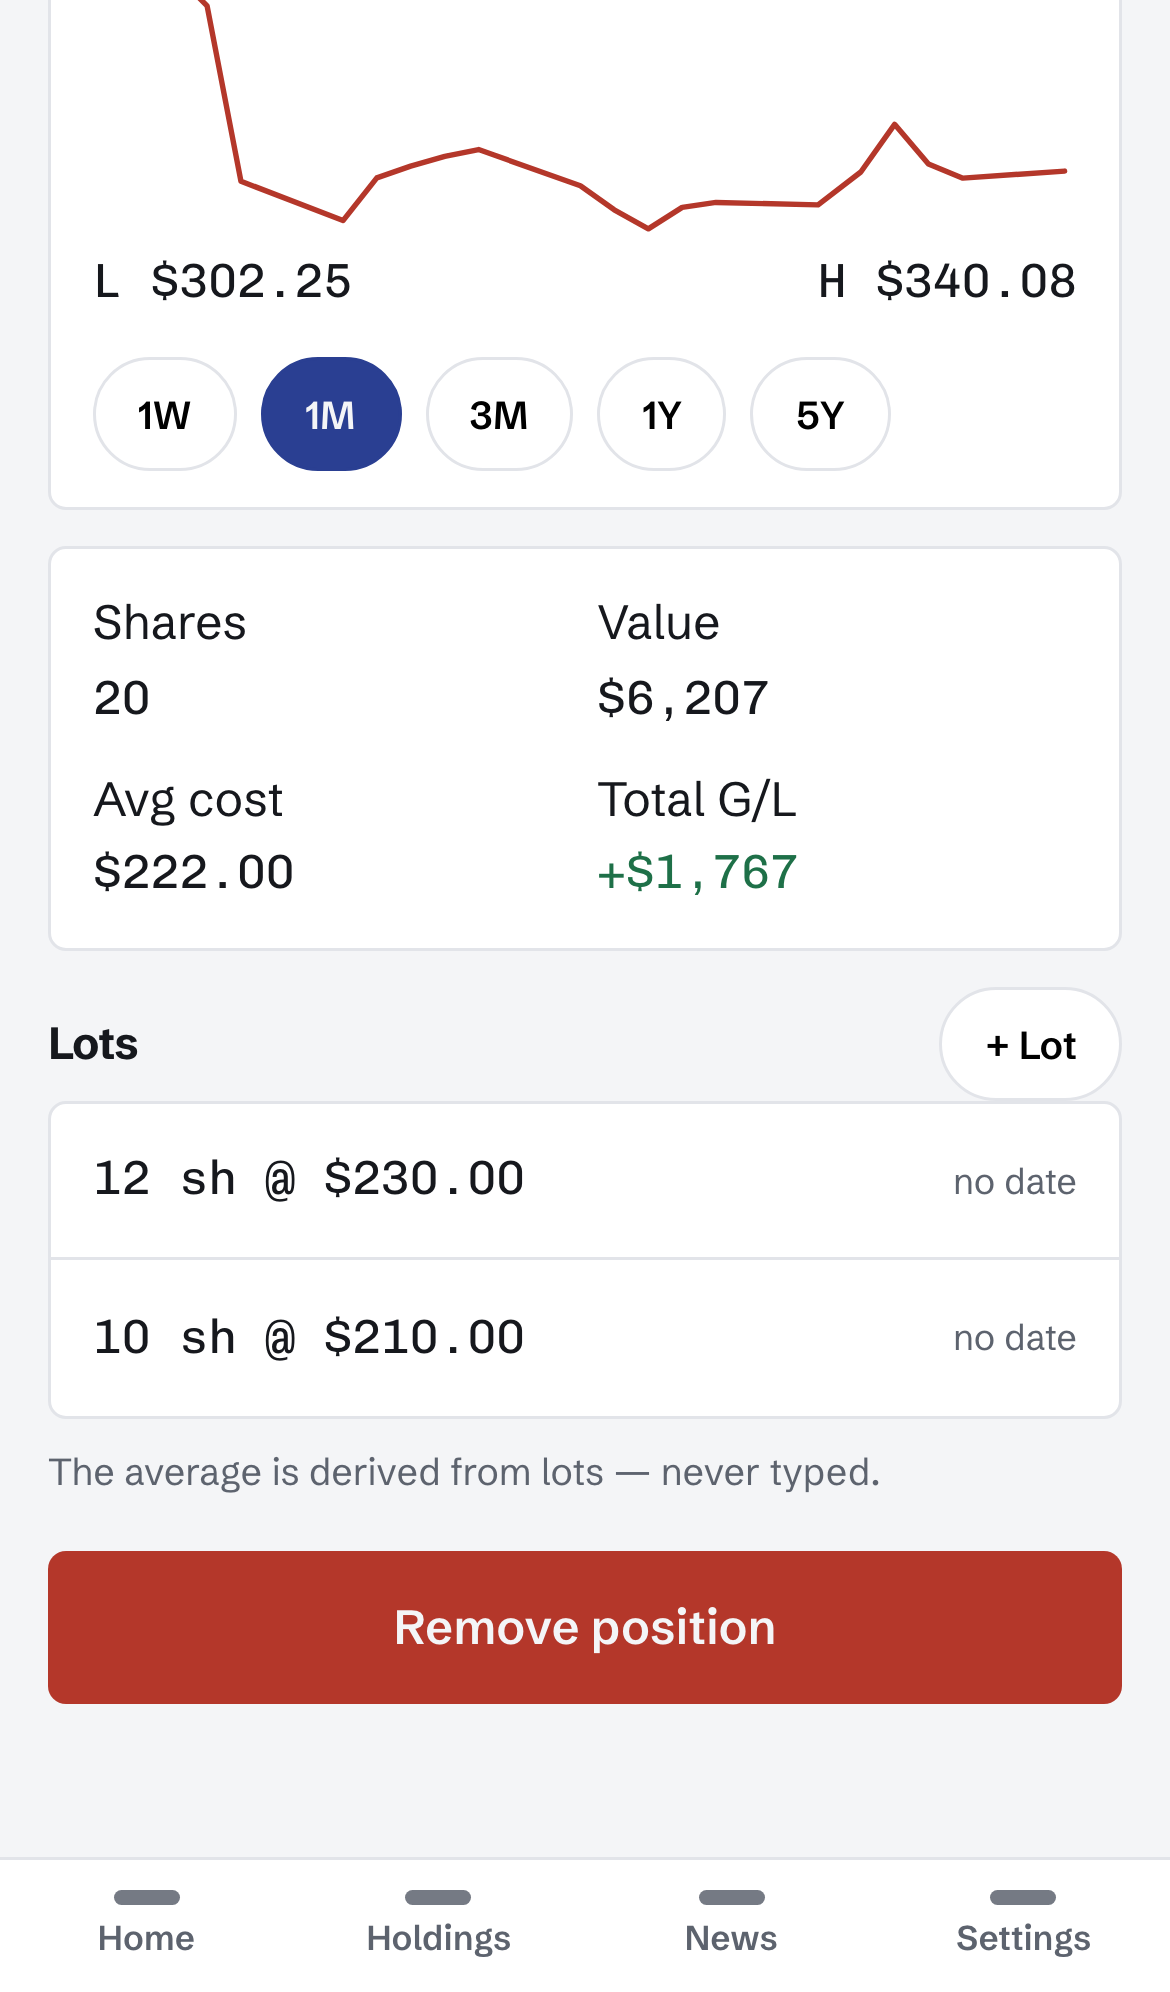
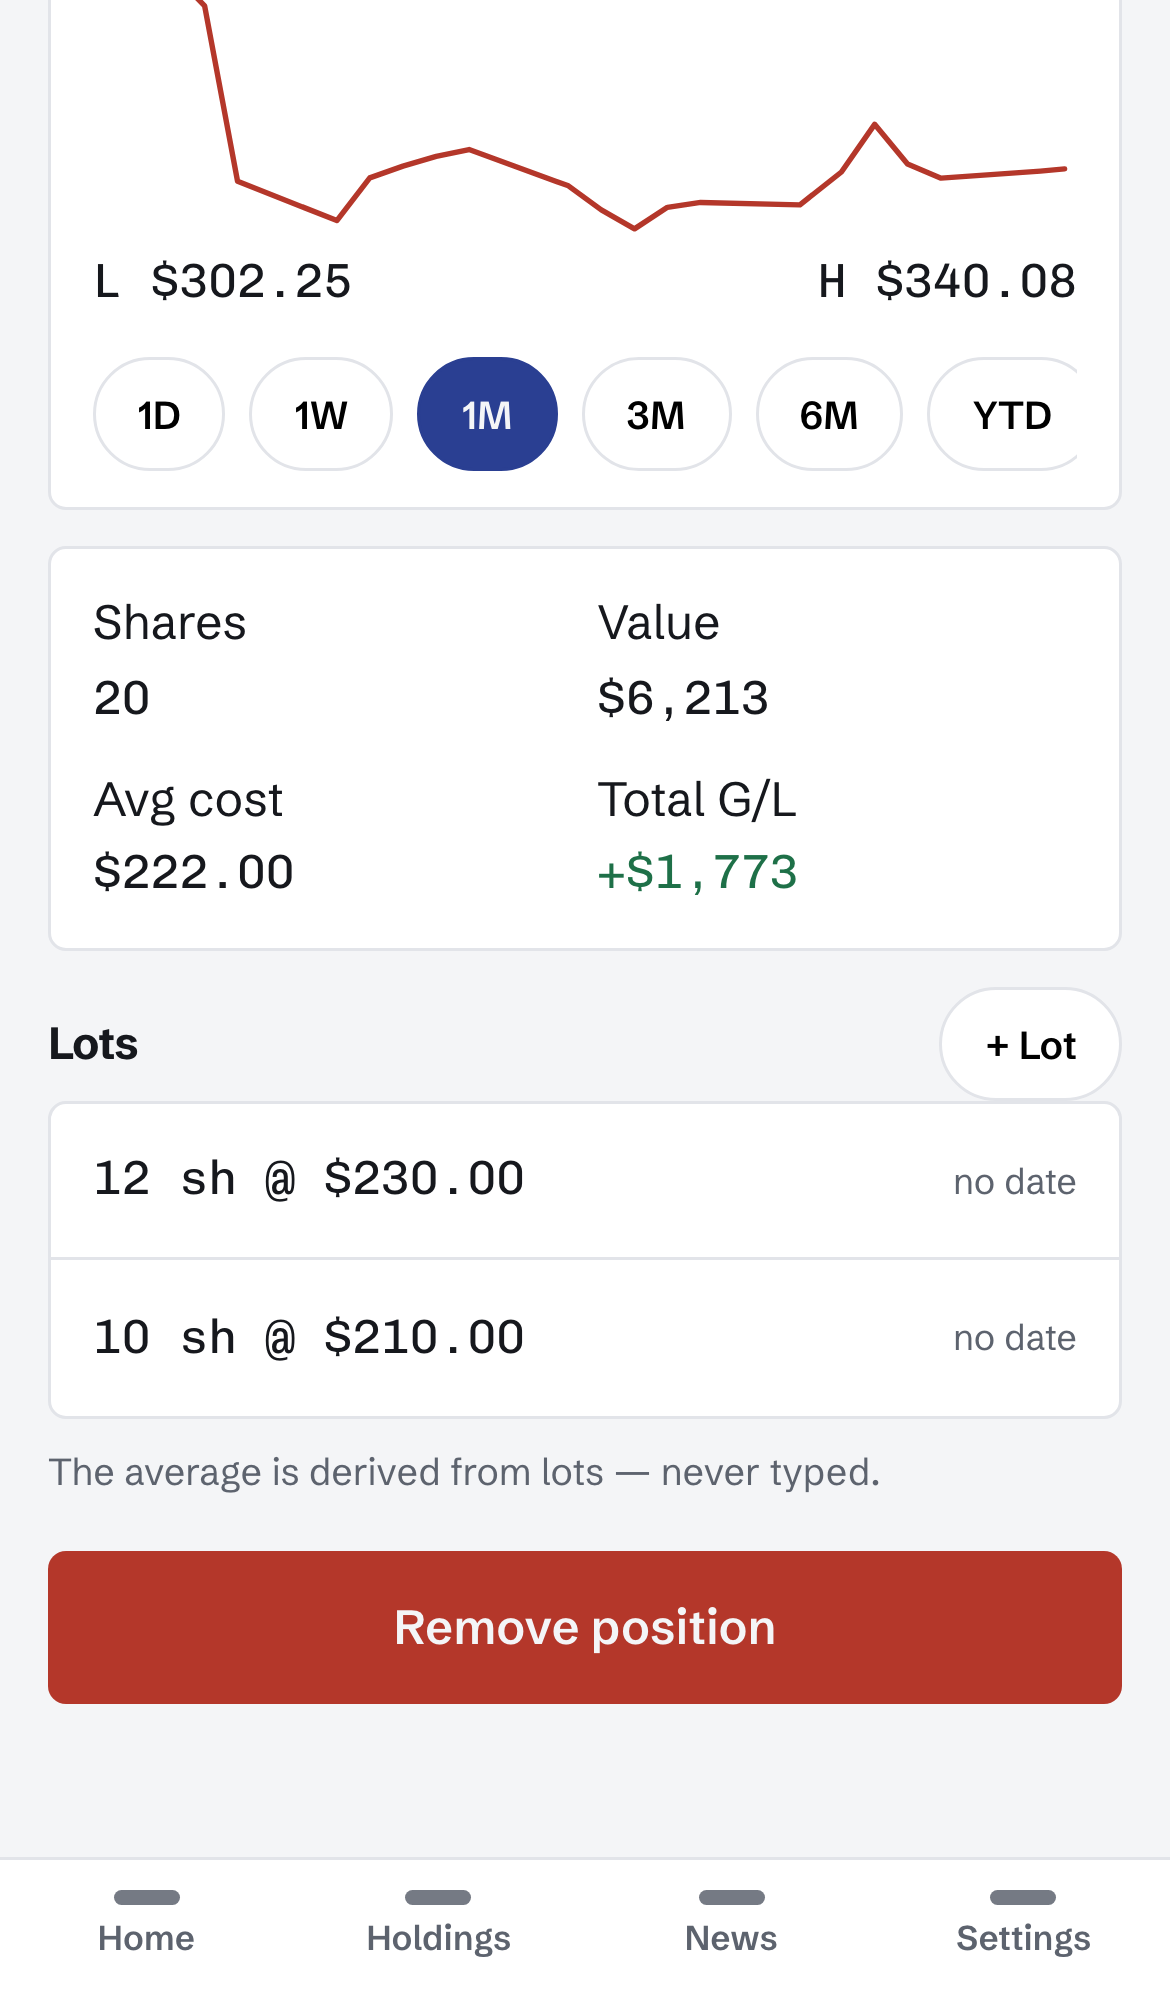
Scenario: full 9-range chart loop; canvas chips synced
Claude-Session: https://claude.ai/code/session_01UrXDbe72LnXzKfy7ekZgnY

diff --git a/design/Assetly gap screens.dc.html b/design/Assetly gap screens.dc.html
@@ -85,7 +85,7 @@ body{margin:0;background:#DFE2E7;font-family:'Schibsted Grotesk','Noto Sans KR',
   <div class="dv-thd"><a class="dv-tid" href="#t7">t7</a><span class="dv-tname">Price chart on Position — 1D/1W/1M/3M (synced from Claude Code, implemented in app/web)</span></div>
   <p class="dv-sub">Every held ticker carries 5 years of history (weekly + daily closes) backfilled the moment it is added.
   The chart draws <b>daily closes only</b> — one point per day, no intraday jitter — and while the market trades, today's
-  point is the live price. Ranges 1W · 1M · 3M · 1Y · 5Y (1D dropped: a one-point range is noise). Loss ranges draw red, gains green.</p>
+  point is the live price. Ranges 1D · 1W · 1M · 3M · 6M · YTD · 1Y · 2Y · 5Y (Stocks-app parity; 1D is the intraday line, all others daily closes). Loss ranges draw red, gains green.</p>
   <div class="dv-opts">
 
     <div class="dv-opt" id="7a">
@@ -99,11 +99,15 @@ body{margin:0;background:#DFE2E7;font-family:'Schibsted Grotesk','Noto Sans KR',
           <svg viewBox="0 0 320 96" style="width:100%;display:block"><path d="M4 76 L43 70 L82 74 L121 62 L160 56 L199 58 L238 44 L277 34 L316 20" fill="none" stroke="#1E7048" stroke-width="1.8" stroke-linecap="round" stroke-linejoin="round"/></svg>
           <div style="display:flex;justify-content:space-between;margin-top:2px"><span class="sub n">L $26.85</span><span class="sub n">H $27.51</span></div>
           <div style="display:flex;gap:7px;margin-top:10px">
-            <span style="border:1px solid #E2E4E9;background:#fff;border-radius:999px;padding:6px 12px;font:600 12px 'Schibsted Grotesk'">1W</span>
-            <span style="border:1px solid #2A3F92;background:#2A3F92;color:#F4F5F7;border-radius:999px;padding:6px 12px;font:600 12px 'Schibsted Grotesk'">1M</span>
-            <span style="border:1px solid #E2E4E9;background:#fff;border-radius:999px;padding:6px 12px;font:600 12px 'Schibsted Grotesk'">3M</span>
-            <span style="border:1px solid #E2E4E9;background:#fff;border-radius:999px;padding:6px 12px;font:600 12px 'Schibsted Grotesk'">1Y</span>
-            <span style="border:1px solid #E2E4E9;background:#fff;border-radius:999px;padding:6px 12px;font:600 12px 'Schibsted Grotesk'">5Y</span>
+            <span style="border:1px solid #E2E4E9;background:#fff;border-radius:999px;padding:5px 9px;font:600 11px 'Schibsted Grotesk'">1D</span>
+            <span style="border:1px solid #E2E4E9;background:#fff;border-radius:999px;padding:5px 9px;font:600 11px 'Schibsted Grotesk'">1W</span>
+            <span style="border:1px solid #2A3F92;background:#2A3F92;color:#F4F5F7;border-radius:999px;padding:5px 9px;font:600 11px 'Schibsted Grotesk'">1M</span>
+            <span style="border:1px solid #E2E4E9;background:#fff;border-radius:999px;padding:5px 9px;font:600 11px 'Schibsted Grotesk'">3M</span>
+            <span style="border:1px solid #E2E4E9;background:#fff;border-radius:999px;padding:5px 9px;font:600 11px 'Schibsted Grotesk'">6M</span>
+            <span style="border:1px solid #E2E4E9;background:#fff;border-radius:999px;padding:5px 9px;font:600 11px 'Schibsted Grotesk'">YTD</span>
+            <span style="border:1px solid #E2E4E9;background:#fff;border-radius:999px;padding:5px 9px;font:600 11px 'Schibsted Grotesk'">1Y</span>
+            <span style="border:1px solid #E2E4E9;background:#fff;border-radius:999px;padding:5px 9px;font:600 11px 'Schibsted Grotesk'">2Y</span>
+            <span style="border:1px solid #E2E4E9;background:#fff;border-radius:999px;padding:5px 9px;font:600 11px 'Schibsted Grotesk'">5Y</span>
           </div>
         </div>
         <div class="card"><div class="row"><span class="sub">Shares</span><span class="n">5</span></div><div class="row"><span class="sub">Avg cost</span><span class="n">$50.00</span></div></div>
